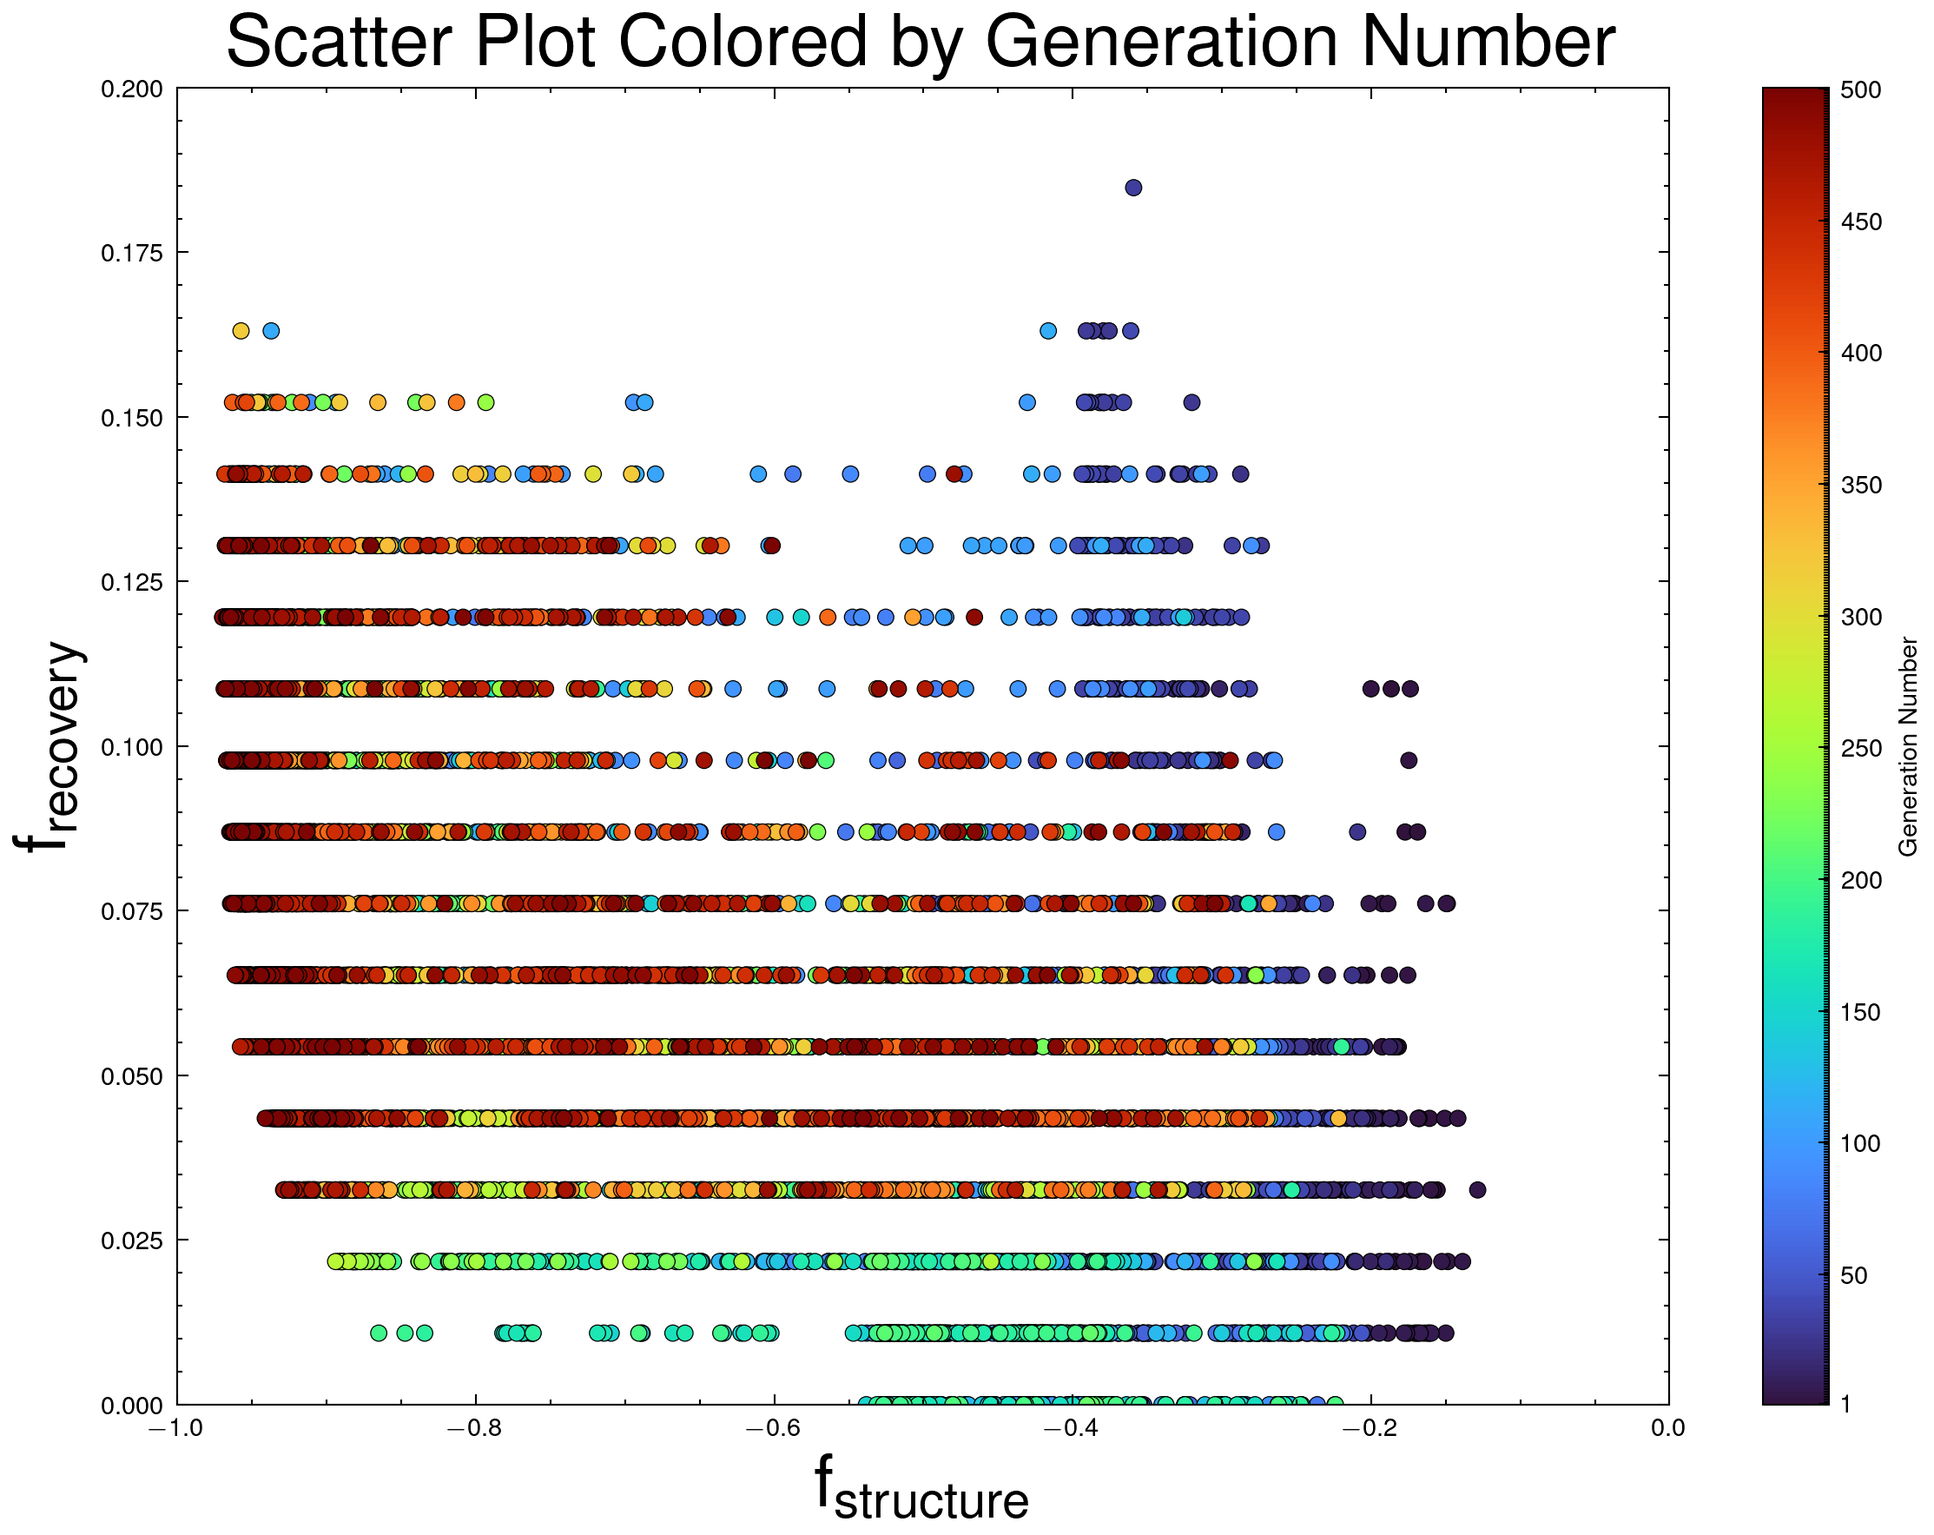
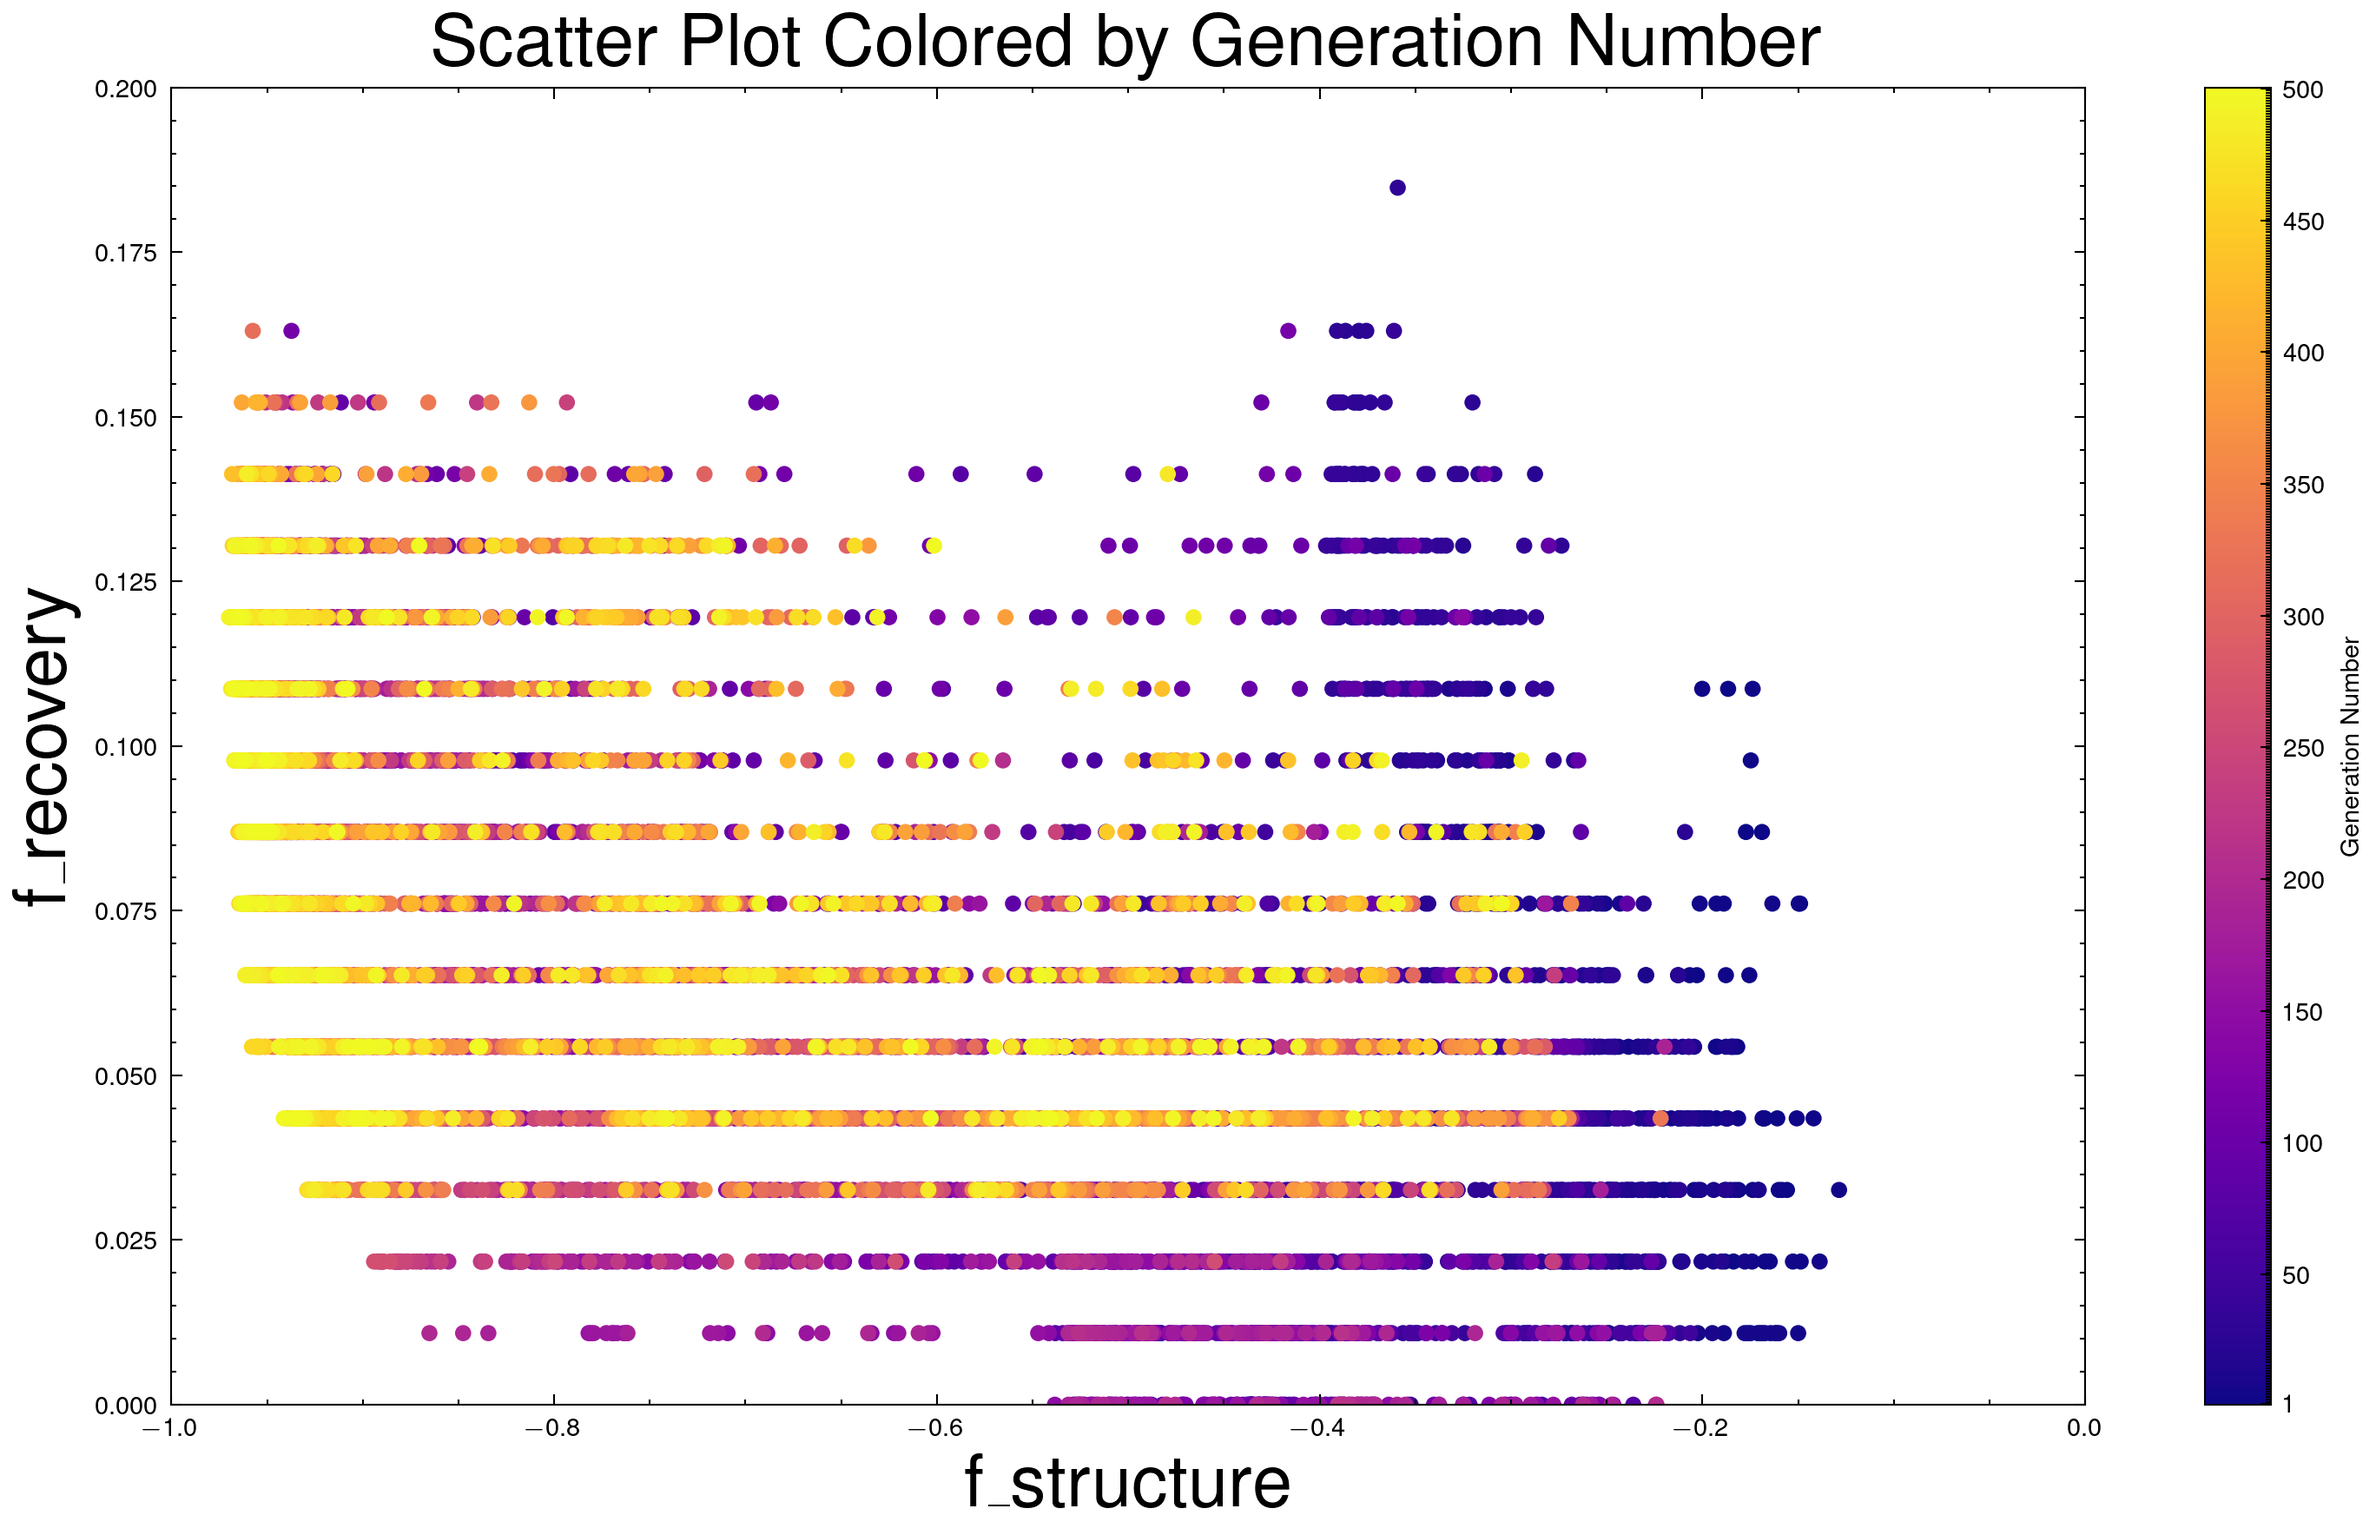
fix plot

diff --git a/plot-code/plot_tm_wtr_grouped20.py b/plot-code/plot_tm_wtr_grouped20.py
@@ -49,15 +49,15 @@ for csv_path in csv_files:
         wt_list.append(row[wt_col])
         group_ids.append(gen_id)
 
-    cmap = colormaps['turbo']
+    cmap = colormaps['plasma']
     fixed_colors = cmap(np.linspace(0, 1, max_generation+1))
     discrete_cmap = colors.ListedColormap(fixed_colors[1:])
     norm = colors.BoundaryNorm(np.arange(0.5, max_generation + 1.5, 1), max_generation)
 
-    plt.figure(figsize=(8, 6))
+    plt.figure(figsize=(10, 6))
     sc = plt.scatter(tm_list, wt_list, c=group_ids,
                     cmap=discrete_cmap, norm=norm,
-                    s=20, edgecolor='k', linewidth=0.3, font_size=10)
+                    s=20, edgecolors='none')
 
     cbar = plt.colorbar(sc, label='Generation Number',)
     tick_positions = np.concatenate([[1], np.arange(50, max_generation + 1, 50)])
@@ -66,10 +66,10 @@ for csv_path in csv_files:
     plt.xlim(-1.0, 0.0)
     plt.ylim(0.0, 0.2)
 
-    plt.xlabel(r'$\mathrm{f}_{\text{structure}}$', fontsize=20)
-    plt.ylabel(r'$\mathrm{f}_{\text{recovery}}$', fontsize=20)
+    plt.xlabel('f_structure', fontsize=20)
+    plt.ylabel('f_recovery', fontsize=20)
     plt.title('Scatter Plot Colored by Generation Number', fontsize=20)
     plt.tight_layout()
-    #plt.show()
+    # plt.show()
     plt.savefig(f'plot/colored_scatter/tm_wtr_generation_scatter_{name}.png', dpi=300, format='png')
 

diff --git a/plot-code/Distribution_map.py b/plot-code/Distribution_map.py
@@ -93,8 +93,8 @@ for col, path in zip(colors, csv_files):
              marker='o', markersize=4, linewidth=1.5,
              alpha=0.9, color=col, label=os.path.basename(path))
 
-plt.xlabel(r'$\mathrm{f}_{\text{structure}}$', fontsize=20)
-plt.ylabel(r'$\mathrm{f}_{\text{recovery}}$', fontsize=20)
+plt.xlabel("r_structure", fontsize=20)
+plt.ylabel("f_recovery", fontsize=20)
 plt.title('Pareto Fronts', fontsize=14)
 plt.legend(title='CSV Files', fontsize='x-small', markerscale=0.8,
            bbox_to_anchor=(1.02, 1), loc='upper left', borderaxespad=0.0, title_fontsize=23)

diff --git a/plot-code/tempCodeRunnerFile.py b/plot-code/tempCodeRunnerFile.py
@@ -1,1 +1,1 @@
-colored_scatter
+matplotlib
